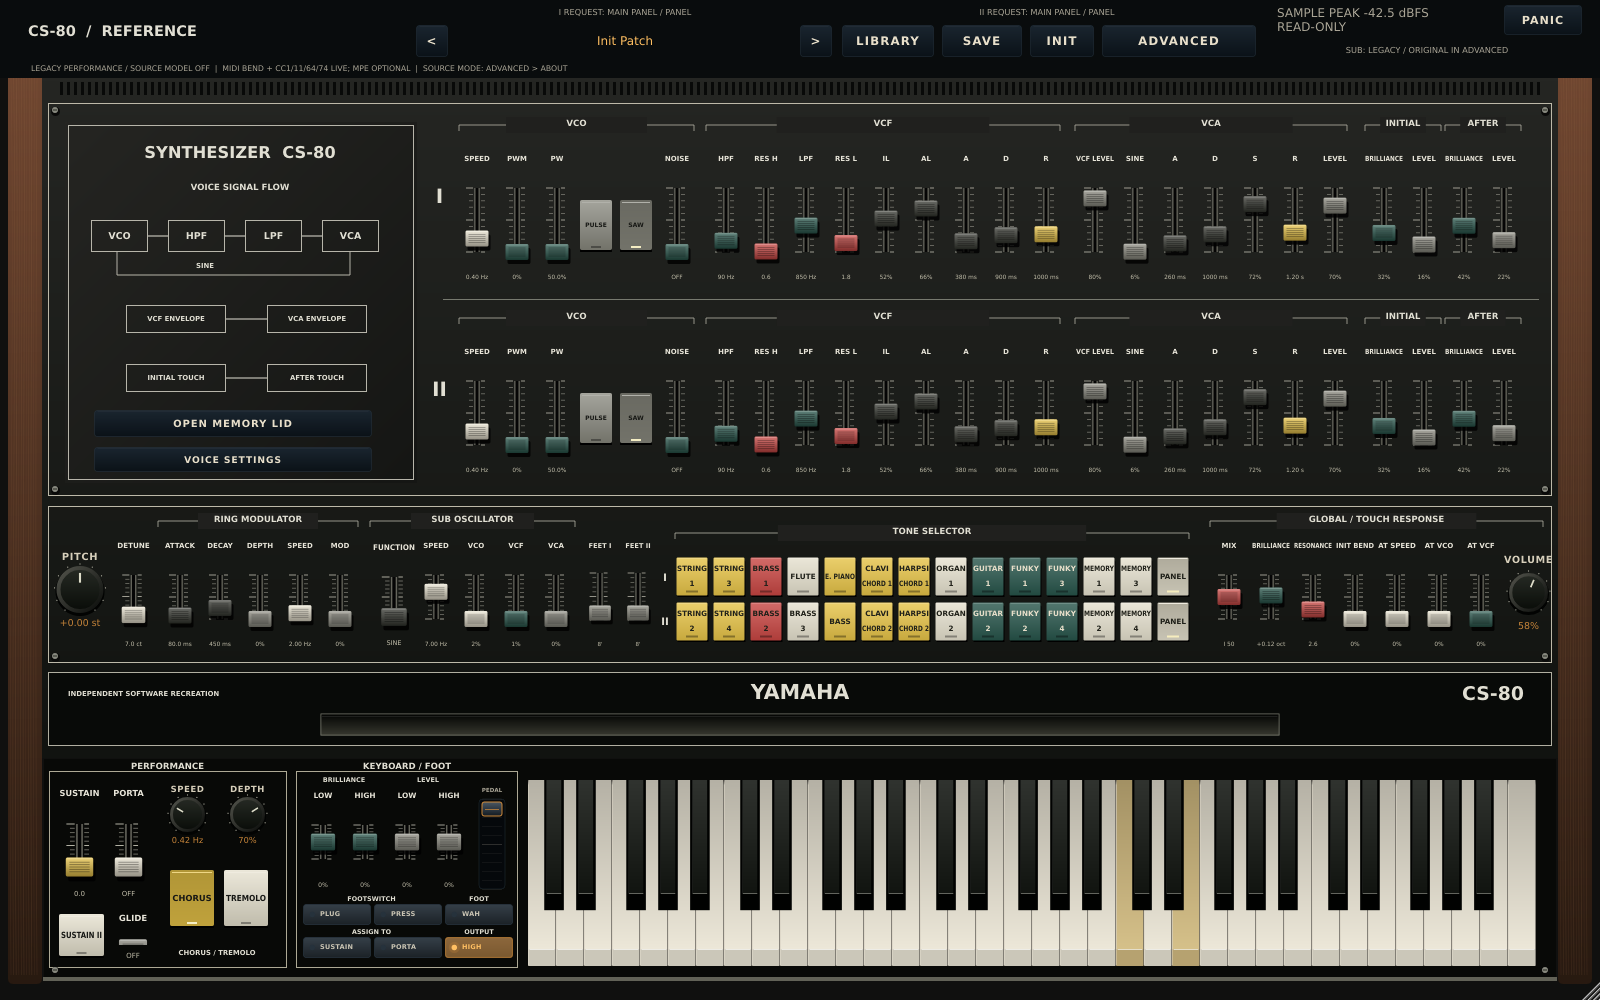
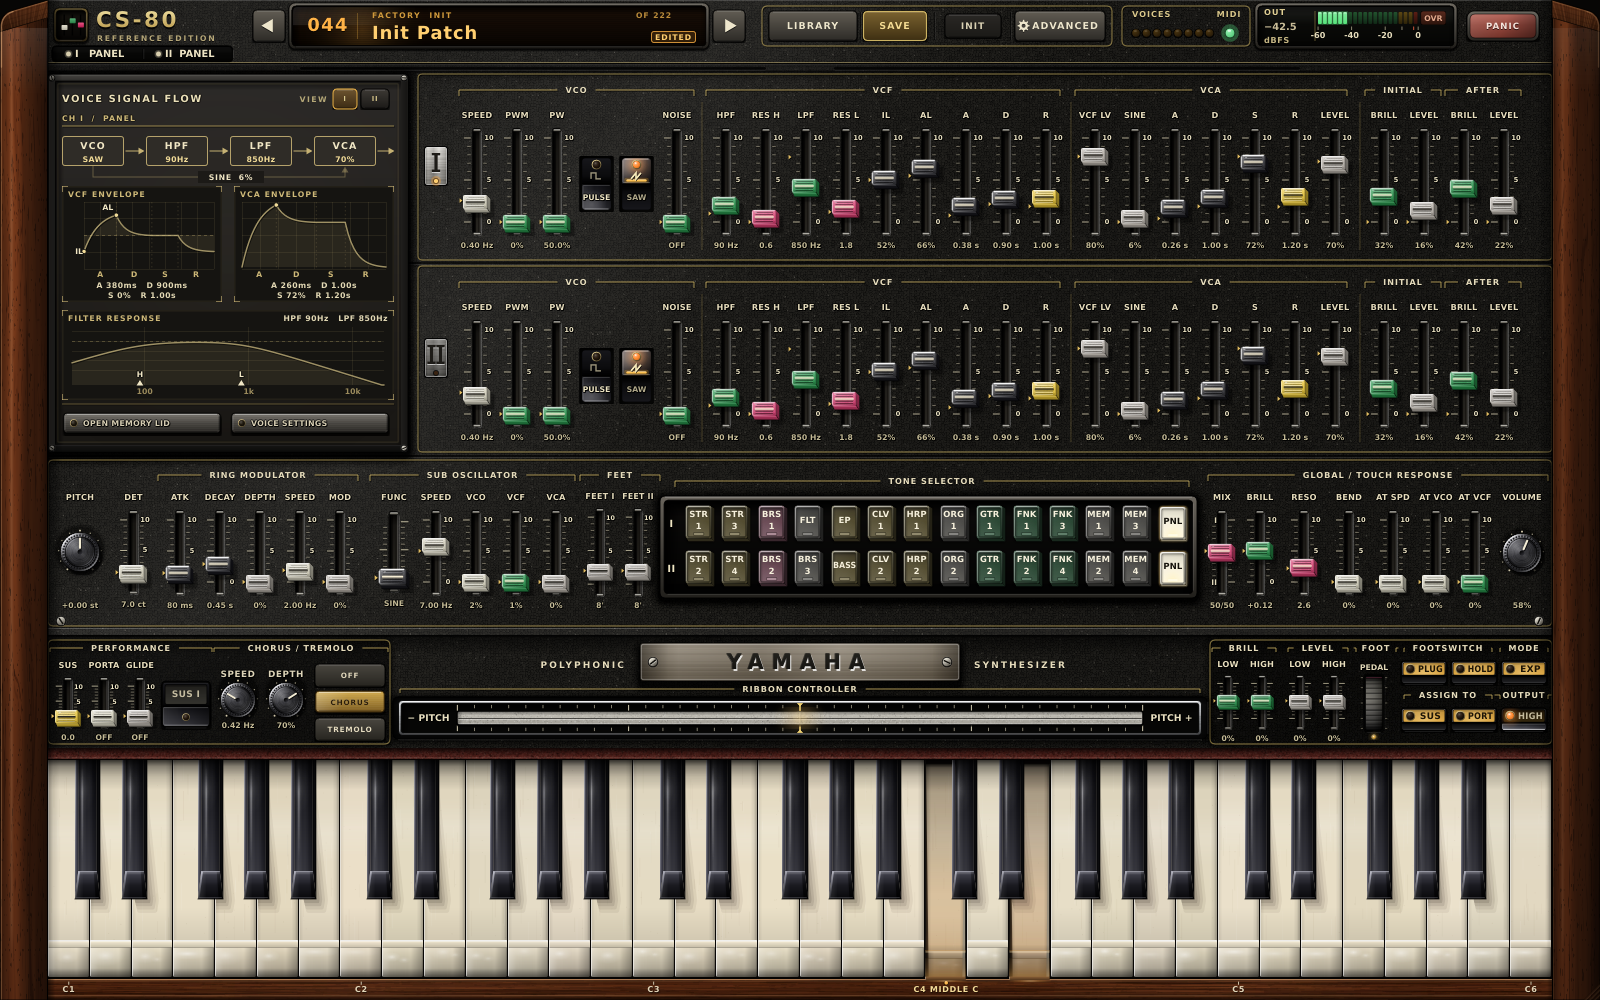
Document the redesigned editor in the README and refresh the screenshots
Adds the editor section, replaces the 17 old captures with the 23 images rendered by the
screenshot workflow, updates test counts and cleans the UI spec of process notes.

Claude-Session: https://claude.ai/code/session_01MxucX1TjDGxNX6pJvnvHnf

diff --git a/README.md b/README.md
@@ -2,9 +2,27 @@
 
 An independent, code-first recreation of the Yamaha CS-80: eight voices, two independent synthesis ranks per voice (sixteen oscillator / filter / VCA chains), polyphonic pressure, ribbon, ring modulation, SUB oscillator, chorus/tremolo and a modern performance layer. C++20 / JUCE 8, built as **VST3, AU (macOS) and Standalone**, with a JUCE-free core library that renders offline.
 
-![Source Performance: current actual CS-80 Reference editor](docs/screenshots/main-source-performance-1600x1000.png)
+![The CS-80 Reference editor at 1600×1000 with Brass tones on both ranks, three LFOs, three effects and the arpeggiator set up for the capture](docs/screenshots/main-populated-1600x1000.png)
 
-*Actual editor: Source Performance ON, isolation OFF; rank I String 3 uses a complete source column and rank II String 2 an inferred column. Captured from `deb34f4` in [GitHub Actions](https://github.com/cheshmakzanoon-ops/yamaha-cs80/actions/runs/41011794159), not a mockup.*
+*The actual plugin editor, rendered by the real code in GitHub Actions, not a mockup. Tone tabs BRASS 1 and BRASS 2 are lit and two keys are held. [provenance.json](docs/screenshots/provenance.json) records the exact commit and run of every image in this README.*
+
+## The editor
+
+The editor is an original vector drawing of a CS-80 front panel, built from JUCE paint calls with no bitmaps: no Yamaha or Arturia artwork, icons or text are used. It evokes the instrument. It is **not** a pixel copy of a particular hardware unit, and no side-by-side comparison against photographs was measured.
+
+| Area | What is there |
+| --- | --- |
+| Toolbar | Preset display with provenance (`FACTORY` or `USER`, slot, an **EDITED** flag), previous/next, **LIBRARY**, **SAVE**, **INIT**, **ADVANCED**, eight voice lamps, MIDI lamp, output sample-peak meter, **PANIC** |
+| Voice signal flow plate | Live VCO → HPF → LPF → VCA chain, filter and amplifier contour curves and the filter response of the viewed rank (I or II) |
+| Channel I and II rows | Two identical rows of long faders (VCO, VCF, VCA, initial and after touch) with colour-coded caps, PULSE/SAW rocker switches and engraved value readouts |
+| Centre row | Ring modulator, SUB oscillator, feet, the 14-position × 2-rank backlit **tone selector**, and the global / touch-response faders with the volume and pitch knobs |
+| Performance deck | Sustain / porta / glide, chorus and tremolo keys, nameplate, a wide ribbon controller, brilliance and level levers, pedal, footswitch and output switches |
+| Keybed | Full-width 61-key keyboard in a walnut frame. Depressed keys sink and are tinted; drag down a key for pressure |
+| Overlays | Searchable preset **library** (filters, favourites, sort, spectrum thumbnails, loaded/edited markers), four-page **Advanced** panel and the **memory lid** with four miniature programmer panels |
+
+The material language is dark walnut cheeks, a fine black crinkle finish, cream and gold silkscreen legends, lit-from-upper-left bevels and cast shadows. The window opens between 1120×700 and 1600×1000 and scales the 1600×1000 design space. See the [design specification](docs/UI_DESIGN_SPEC.md).
+
+**Known editor limits.** Independent review passes judged it clearly a CS-80 but not photographic. The control surface is evenly lit, with few bezels, ambient occlusion or translucency. At 1120×700 the smallest legends and readouts are tight. Hover, drag and tooltip states were checked only in test harnesses, not in a DAW.
 
 ## Current working instrument
 
@@ -24,9 +42,9 @@ An independent, code-first recreation of the Yamaha CS-80: eight voices, two ind
 
 Keep output headroom: source models are not normalized or limited. PANIC stops existing notes/holds, not retained effects or noise. The [mode contract](docs/SOURCE_PERFORMANCE.md), [Panic behavior](docs/PANIC_CONTROL.md), and [meter scope](docs/OUTPUT_METER.md) explain these boundaries.
 
-### Verified development packages
+### Development packages (last fully verified: `deb34f4`)
 
-These links identify **deb34f4**, whose native build/tests and stable validators passed [run 41011794181, attempt 1](https://github.com/cheshmakzanoon-ops/yamaha-cs80/actions/runs/41011794181). Its production core/plugin sources are unchanged from **00624e2 / 428e4b2**; the experimental continuity kernel is **not selected by the plugin**. GitHub artifact downloads may require sign-in and expire under repository retention settings.
+These links identify **deb34f4**, the last commit whose full-platform build, tests and stable validators all passed ([run 41011794181, attempt 1](https://github.com/cheshmakzanoon-ops/yamaha-cs80/actions/runs/41011794181)). **They contain the previous editor.** Packages for the current editor are the artifacts of the `build` workflow run for the head of `main`. Its production core/plugin sources are unchanged from **00624e2 / 428e4b2**; the experimental continuity kernel is **not selected by the plugin**. GitHub artifact downloads may require sign-in and expire under repository retention settings.
 
 | Platform | Package |
 | --- | --- |
@@ -57,33 +75,50 @@ Start with the [original hardware references](docs/HARDWARE_REFERENCES.md), the 
 
 ## Actual editor screenshots
 
-All **17 images** were rendered by the real editor and passed the screenshot/UI smoke in [run 41011794159](https://github.com/cheshmakzanoon-ops/yamaha-cs80/actions/runs/41011794159). The source commit is recorded in [provenance.json](docs/screenshots/provenance.json), with [PNG checksums](docs/screenshots/SHA256SUMS). A screenshot does not validate later code changes or prove analog equivalence.
+All **23 images** were rendered by the real plugin editor in the [screenshot workflow](https://github.com/cheshmakzanoon-ops/yamaha-cs80/actions/workflows/screenshots.yml), which also runs the full plugin/UI self-test (control bounds, accessibility names, keyboard focus, hardware-slider count, initial size, host, state and gesture fixtures) and must pass before images are published. The commit and run are recorded in [provenance.json](docs/screenshots/provenance.json), with [PNG checksums](docs/screenshots/SHA256SUMS). A screenshot does not validate later code changes or prove analog equivalence.
 
-### Minimum supported size: Source Performance at 1120×700
+### Default state at 1600×1000
 
-![Source Performance at 1120×700](docs/screenshots/main-source-performance-1120x700.png)
+![Default editor state at 1600×1000](docs/screenshots/main-1600x1000.png)
+
+### Minimum supported size, 1120×700
+
+![Editor at 1120×700](docs/screenshots/main-1120x700.png)
+
+### Preset library and memory programmer
+
+![Preset library](docs/screenshots/browser-1600x1000.png)
+
+![Memory lid open with memory 2 selected: the heard row is ringed, the others read NOT ACTIVE](docs/screenshots/memory-programmer-selected-1600x1000.png)
+
+### Advanced panel (modulation page, populated)
+
+![Advanced panel page 1 with three LFOs routed](docs/screenshots/advanced-populated-page1.png)
 
 ### Source Performance and comparison isolation are separate
+
+![Source Performance at 1120×700](docs/screenshots/main-source-performance-1120x700.png)
 
 ![Advanced About with Source Performance enabled and isolation disabled](docs/screenshots/advanced-source-performance-about.png)
 
 | View | Actual capture |
 | --- | --- |
+| Populated panel (Brass tones, LFOs, effects, arpeggiator) | [1600×1000](docs/screenshots/main-populated-1600x1000.png) |
 | Full-size Source Performance | [1600×1000 panel](docs/screenshots/main-source-performance-1600x1000.png) |
 | Deliberate high-output fixture | [Real +11.9 dBFS / OVER-RANGE indication](docs/screenshots/main-source-performance-over-range-1600x1000.png) |
 | Legacy/PANEL workflow | [Legacy panel](docs/screenshots/main-legacy-1600x1000.png) |
+| Panel after repeated overlay open/close transitions | [Restored panel](docs/screenshots/main-restored-1600x1000.png) |
 | 1200×760 layout | [Panel at intermediate size](docs/screenshots/main-1200x760.png) |
-| Modulation / expression | [Advanced page 1](docs/screenshots/advanced-page1.png) |
-| Sub oscillator / ring / chorus / analog voice | [Advanced page 2](docs/screenshots/advanced-page2.png) |
-| FX / macros / output | [Advanced page 3](docs/screenshots/advanced-page3.png) |
-| Arp / performance / about | [Advanced page 4](docs/screenshots/advanced-page4.png) |
-| External modulation input | [EXT-enabled panel](docs/screenshots/main-ext-enabled-1600x1000.png) |
-| Searchable preset library | [Preset browser](docs/screenshots/browser-1600x1000.png) |
+| Modulation / expression | [Advanced page 1](docs/screenshots/advanced-page1.png), [populated](docs/screenshots/advanced-populated-page1.png) |
+| Sub oscillator / ring / chorus / analog voice | [Advanced page 2](docs/screenshots/advanced-page2.png), [populated](docs/screenshots/advanced-populated-page2.png) |
+| FX / macros / output | [Advanced page 3](docs/screenshots/advanced-page3.png), [populated](docs/screenshots/advanced-populated-page3.png) |
+| Arp / performance / about | [Advanced page 4](docs/screenshots/advanced-page4.png), [populated](docs/screenshots/advanced-populated-page4.png) |
+| External modulation input | [EXT-enabled panel](docs/screenshots/main-ext-enabled-1600x1000.png), [Advanced sub page](docs/screenshots/advanced-sub-ext-enabled.png) |
 | Four memory programmer panels | [Memory lid open](docs/screenshots/memory-programmer-1600x1000.png) |
 
 The over-range image deliberately uses legal high-level PANEL settings and eight notes. Its actual host output peak was finite and above full scale; the normal meter timer produced the warning. This is a **stress demonstration, not a recommended listening level**, and no meter text/telemetry was fabricated. Nonfinite warning behavior is covered by tests, not presented as an observed DSP failure.
 
-The [screenshot workflow](https://github.com/cheshmakzanoon-ops/yamaha-cs80/actions/workflows/screenshots.yml) refreshes repository images only after its checks pass and while the source commit remains current.
+The workflow refreshes the repository images from `main` only after its checks pass and while the source commit remains current.
 
 ---
 
@@ -131,12 +166,13 @@ The next priority is **audible, integrated fidelity improvements**, not accumula
 
 | Check | Count / scope |
 | --- | --- |
-| Core engine suite (`cs80_tests`) | 11,272 checks: parameters, oscillator/filter/envelope behavior, voice allocation, pressure, MIDI, ring/ribbon, sample rates, all 222 presets render |
+| Core engine suite (`cs80_tests`) | 11,300 checks: parameters, oscillator/filter/envelope behavior, voice allocation, pressure, MIDI, ring/ribbon, sample rates, all 222 presets render |
 | Keyboard handoff | Bounded non-audio-producer/audio-consumer queue, epoch/overflow regressions and host integration tests; not a whole-plugin hard-realtime claim |
 | Live envelope timing | 91,672 checks of isolation-only A/D/R refresh without retrigger; level behavior now has a separate inferred model |
 | Live envelope levels | 221,594 checks of state-continuous S/IL/AL response and high-rate convergence; stage-selection/tracking laws explicitly inferred |
 | Envelope numerical accuracy | 22,732 checks of long-envelope convergence, double state/clocks/coefficients and valid high-rate settings; three reduced-precision mutants rejected |
-| Active-tail continuity | 49,584 checks of opt-in isolation phase/filter-state retention; no full idle-clock claim |
+| Active-tail continuity | 49,696 checks of opt-in isolation phase/filter-state retention and release-tail envelope continuity; no full idle-clock claim |
+| OE2 BBD chorus (`cs80_bbd_chorus_tests`) | 70 checks of the source-policy chorus path; clock range and polarity are inferred |
 | Parity isolation / harness | 126 core isolation checks, 22 comparison-harness tests and 13 candidate-export tests; no hardware evidence |
 | Performance controls (`cs80_performance_control_tests`) | 113 checks, mutation-checked: contour, footswitch truth table and edges, EXP-WAH, output switch |
 | Offline reference models | passive preset matrix (4,702 checks), conditional IG00156 graph (112), settled-DC keyboard-contour network (160,459), conditional loaded cutoff-control pair (8,132) eight-voice rank network (14,012), and conditional RC transients (1,882) |
@@ -307,6 +343,8 @@ docs/                           evidence ledgers and audits (index below)
 | [BA617_SOURCE_REVIEW.md](docs/BA617_SOURCE_REVIEW.md) | Verified clock pin roles and installed alignment constraints, not a complete clock law |
 | [REFERENCE_CAPTURE_REQUEST.md](docs/REFERENCE_CAPTURE_REQUEST.md) | M1 external-first reference intake, metadata/rights/calibration requirements and unfilled checklist |
 | [PRESET_RECEIVER_PORTS.md](docs/PRESET_RECEIVER_PORTS.md) | Reviewed 26-output rank-I first-hop ledger with explicit missing loads/paths |
+| [UI_DESIGN_SPEC.md](docs/UI_DESIGN_SPEC.md) | Editor design brief: instrument look, palette, layout grid, component ownership and the review process |
+| [ENGINE_AUDIT.md](docs/ENGINE_AUDIT.md) | Engine QA audit: measured results (aliasing, level, FX behavior), fixes made and items left open, with inferred versus measured labelled |
 | [PARITY_ROADMAP.md](docs/PARITY_ROADMAP.md) | **The plan to 1:1**: definition of done, blockers, workstreams, provisional-value register, order, rules |
 | [ANALOG_FIDELITY_REQUIREMENT.md](docs/ANALOG_FIDELITY_REQUIREMENT.md) | The target, as the owner stated it |
 | [FIDELITY_AUDIT.md](docs/FIDELITY_AUDIT.md) | Dated gap register and every correction so far |
@@ -359,7 +397,7 @@ These keep the project honest; the roadmap's section 9 expands them.
 
 ## Honest scope
 
-The current audio engine is a circuit-informed behavioral reconstruction, not yet a complete component-level simulation or a measured emulation, and not a copy of Arturia's product (no Arturia artwork, code or presets are used; Yamaha-authored documentation is cited as hardware evidence). The oscillator/filter/envelope topologies, dual-rank structure, pressure routing and performance controls follow the CS-80 architecture; the modern FX, macros, MPE and arpeggiator are original additions. The panel is drawn from Yamaha's photographs and manuals with original code. The plugin should be exercised in the target DAW before any release.
+The current audio engine is a circuit-informed behavioral reconstruction, not yet a complete component-level simulation or a measured emulation, and not a copy of Arturia's product (no Arturia artwork, code or presets are used; Yamaha-authored documentation is cited as hardware evidence). The oscillator/filter/envelope topologies, dual-rank structure, pressure routing and performance controls follow the CS-80 architecture; the modern FX, macros, MPE and arpeggiator are original additions. The editor is original vector artwork designed with reference to the instrument's published appearance; no Yamaha or Arturia bitmaps are used. The plugin should be exercised in the target DAW before any release.
 
 ## References
 

diff --git a/docs/UI_DESIGN_SPEC.md b/docs/UI_DESIGN_SPEC.md
@@ -1,6 +1,6 @@
-# CS-80 editor: design spec (round 2 redesign)
+# CS-80 editor: design spec
 
-Goal from the owner: the editor must look like the Yamaha CS-80 itself, in our own original design, at the polish level of the best commercial software recreations (for example Arturia's CS-80 V). Round 1 only recoloured the old layout; round 2 changes layout, controls, menus and keys. The quality bar: a stranger who has seen photos of a CS-80 should recognise it at a glance, and every surface should have depth, material and light.
+Goal: the editor must look like the Yamaha CS-80 itself, in our own original design, at the polish level of the best commercial software recreations. The quality bar: a stranger who has seen photos of a CS-80 should recognise it at a glance, and every surface should have depth, material and light.
 
 Never copy another product's artwork, icons, text or layout. Design from the hardware and from this spec. Never use Yamaha or Arturia bitmaps; everything is drawn with JUCE vector calls.
 
@@ -19,37 +19,36 @@ Panel 0xff1b1a18 to 0xff2e2b27, cream 0xffe9dfc2, gold 0xffcdb878, amber 0xffd9a
 ## Target layout (design space stays 1600 x 1000; min window 1120 x 700, aspect locked as today)
 
 ```text
-y    0-64    Toolbar: brand, preset display (illuminated window), prev/next, LIBRARY, SAVE, INIT, ADVANCED, PANIC, meter
-y   64-660   Control surface: left voice-flow plate | channel I row | channel II row | centre/ring/sub/tone/global row
-y  660-772   Performance deck: performance block | ribbon + YAMAHA nameplate | keyboard/foot block
-y  772-1000  Keybed: full-width 61-key keyboard in a wood-and-felt frame (keys about 40 px wide, 190+ px tall)
+y    0-64    Toolbar: brand, preset display (illuminated window), prev/next, LIBRARY, SAVE, INIT, ADVANCED, voice and MIDI lamps, meter, PANIC
+y   64-72    Ledge under the toolbar (status strip above it, vent grille detail)
+y   72-632   Control surface: voice-flow plate (left) | channel I row | channel II row, then the centre row (ring, sub, feet, tone selector, global)
+y  640-745   Performance deck: performance block | nameplate and 804 px ribbon | brilliance/level/foot block
+y  748-1000  Keybed: full-width 61-key keyboard in a walnut frame (keys 41.8 px wide, about 5:1 length to width)
 ```
 
-The old arrangement put performance and foot controls beside a short keyboard. The new one gives the keyboard the full width and moves those controls to the deck.
+Both side cheeks (x 0-48 and x 1552-1600) are one continuous walnut surface drawn in the backdrop; overlays leave them visible.
 
-## Ownership (each agent edits only its own files)
+## Source map
 
-| Owner | Files | Scope |
+| Area | Files | Scope |
 |---|---|---|
-| KEYS | `src/plugin/HardwareKeyboard.h` | Key rendering, depression animation, glow, keybed frame (`Keybed`), key slip, felt, end blocks, note labels |
-| CONTROLS | `src/plugin/UiComponents.h`, `UiComponents.cpp` | LookAndFeel, faders, caps, knobs, tabs, rockers, LED buttons, wheels, ribbon, tooltips, drag value bubble, shared drawing helpers |
-| CHASSIS | `src/plugin/PluginEditor.cpp`, `PluginEditor.h` | New layout, chassis art, toolbar and display, left plate, memory programmer, overlay transitions |
-| BROWSER | `src/plugin/PresetBrowser.cpp`, `PresetBrowser.h` | Library UI |
-| ADVANCED | `src/plugin/AdvancedPanel.cpp`, `AdvancedPanel.h` | Advanced pages |
+| Keys | `src/plugin/HardwareKeyboard.h` | Key rendering, depression, glow, keybed frame, felt, rail, note labels |
+| Controls | `src/plugin/UiComponents.h`, `UiComponents.cpp` | LookAndFeel, faders, caps, knobs, tabs, rockers, LED buttons, ribbon, tooltips, shared drawing helpers |
+| Chassis | `src/plugin/PluginEditor.cpp`, `PluginEditor.h` | Layout, chassis art, toolbar and display, voice-flow plate, memory programmer, overlay transitions |
+| Library | `src/plugin/PresetBrowser.cpp`, `PresetBrowser.h` | Preset library UI |
+| Advanced | `src/plugin/AdvancedPanel.cpp`, `AdvancedPanel.h` | Advanced pages |
 
-Shared rules:
+Rules for UI changes:
 
-- Do not remove or change the signature of an existing declaration in `UiComponents.h`; add new ones. Others compile against them.
+- Do not remove or change the signature of an existing declaration in `UiComponents.h`; add new ones. Other files compile against them.
 - The accessibility names, titles, parameter bindings, keyboard focus and tab order of every control must survive. Tests in `src/tools/ui_snapshot.cpp` check them.
 - No pixel-level assertions exist; the self-test checks bounds, accessibility, focus, at least 40 hardware sliders, snapshot sizes.
 - Everything static is drawn once into a buffered image (see `Backdrop`). Per-frame repaints must stay cheap: no blur filters, no per-frame gradients over large areas. The editor repaints at 8 Hz; animation needs its own small timer on its own small component.
 - JUCE 8.0.11, C++20, software renderer. Fonts in CI are DejaVu only: build the engraved look from bold weights, `withHorizontalScale`, `withExtraKerningFactor` and drop shadows rather than a custom typeface.
 
-## Process
+## Checking a change
 
-- One shared source tree and one build tree. Build and render with `/home/claude/work/render.sh <outdir>`; it serialises builds across agents. If it reports an error in a file you do not own, another agent is mid-edit: wait 60 s and rerun. Never edit another agent's file.
-- Look at your PNGs with the Read tool, critique them against this spec, and iterate at least four times before reporting. Zoom by cropping with PIL (`Image.crop().resize()`) and read the crops.
-- Commit only your own files: `git add <your files> && git commit -m "..." -- <your files>`. Never `git add -A`, `git stash`, `git reset`, `git checkout` or `git push`. If `index.lock` exists, wait and retry.
-- A passing run has no `FAIL` line in `<outdir>/run.log` (the process may exit 1 with only an `X Error BadAtom` line; that is the missing window manager and is fine).
-- Commit message style: plain prose, imperative, no emoji, end with the two trailer lines
-  `Co-Authored-By: Claude Sonnet 5.5 <noreply@anthropic.com>` and `Claude-Session: https://claude.ai/code/session_01MxucX1TjDGxNX6pJvnvHnf`.
+- Build and render with the `CS80Snapshots` target: `CS80Snapshots --out <dir> --self-test`. On Linux run it through `scripts/run-ui-smoke-linux.sh` (Xvfb plus Openbox); a bare X server aborts with `BadAtom` partway through and silently skips the later checks.
+- A passing run ends with `UI SMOKE TEST PASSED` and has no `FAIL` line in the log.
+- Look at the PNGs, and zoom into crops of the area you changed, at 1600x1000 and at the 1120x700 minimum.
+- Never use Yamaha or Arturia bitmaps; everything is drawn with JUCE vector calls.
